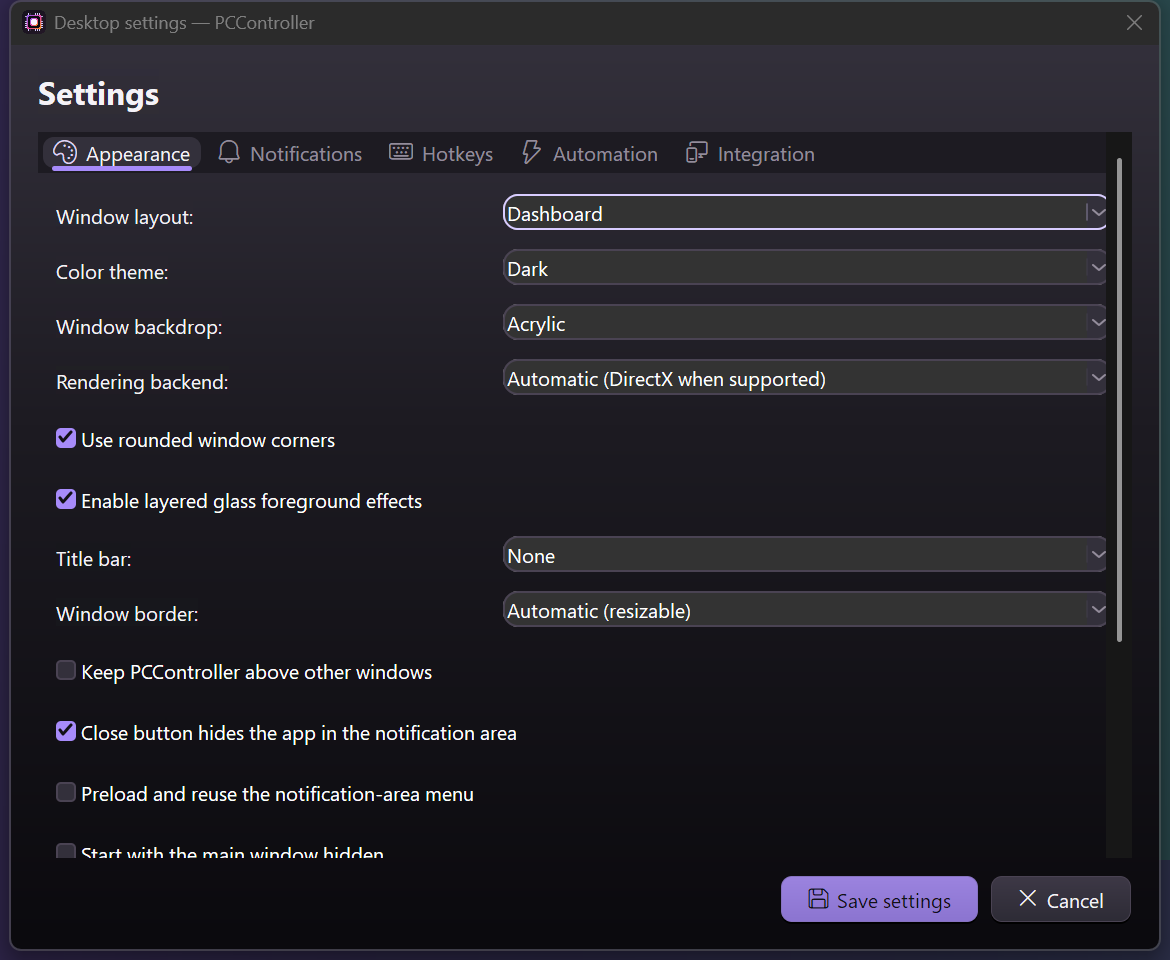
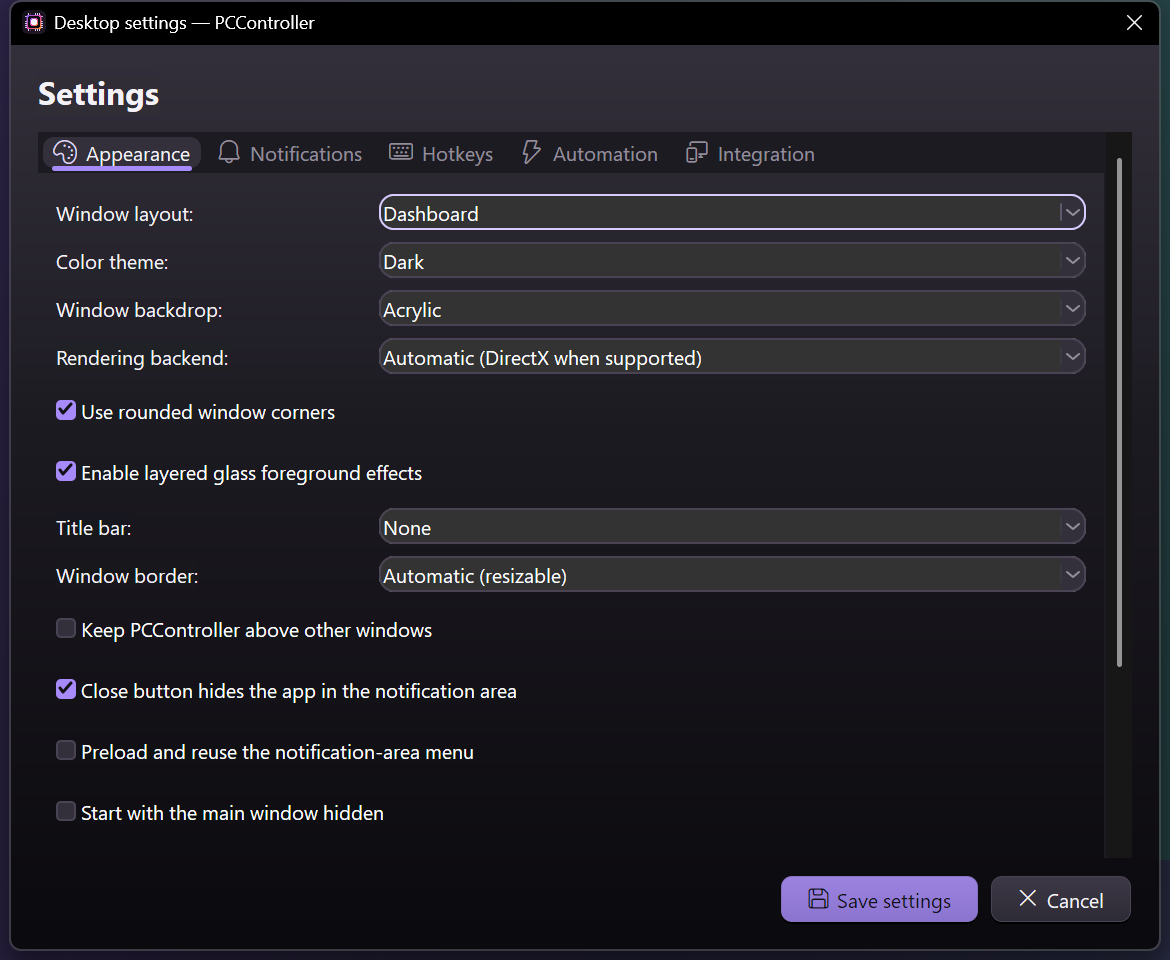
fix(desktop): align settings forms and reserve scrollbar space

Changed region(s): [[0.0308, 0.2188, 0.9538, 0.9062], [0.3077, 0.1875, 0.9538, 0.4062], [0.0, 0.0, 1.0, 0.0625]]

diff --git a/Tools/NativeDesktop/internal/dialogs/settings_windows.go b/Tools/NativeDesktop/internal/dialogs/settings_windows.go
@@ -598,6 +598,7 @@ func newSettingsDialogSession(
 		session.preview.Close()
 		return nil, fmt.Errorf("create settings dialog: %w", err)
 	}
+	configureSettingsFormLayouts(controls.tabs)
 	geometry, geometryErr := winfx.AttachResponsiveDialogGeometry(
 		uintptr(session.dialog.Handle()),
 	)
@@ -767,6 +768,21 @@ func newSettingsDialogSession(
 		return nil, fmt.Errorf("prepare settings dialog monitor geometry: %w", err)
 	}
 	return session, nil
+}
+
+// Full-width checkboxes and spacers must not make the label column consume
+// half of a wide dialog. Give the editor column the spare width and center
+// short native labels beside their taller inputs, consistently on every page.
+func configureSettingsFormLayouts(tabs *walk.TabWidget) {
+	if tabs == nil {
+		return
+	}
+	for index := 0; index < tabs.Pages().Len(); index++ {
+		if grid, ok := tabs.Pages().At(index).Layout().(*walk.GridLayout); ok {
+			_ = grid.SetAlignment(walk.AlignHNearVCenter)
+			_ = grid.SetColumnStretchFactor(1, 4)
+		}
+	}
 }
 
 func (session *settingsDialogSession) requestSave() {
@@ -1164,29 +1180,28 @@ func settingsAppearancePage(controls *settingsControls, cfg config.Config) decl.
 				Text:       "Enable APNG animation and motion",
 				Checked:    cfg.UI.Animations,
 			},
-			decl.CheckBox{
-				AssignTo:    &controls.magneticSnap,
-				Row:         14,
-				Column:      0,
-				Text:        "Magnetic edge snap",
-				Checked:     cfg.UI.MagneticSnap,
-				ToolTipText: "Hold Ctrl while dragging to temporarily disable snapping; release Ctrl to resume it immediately.",
-				OnCheckedChanged: func() {
-					updateSettingsEnabled(controls)
+			decl.Composite{
+				Row: 14, Column: 0, ColumnSpan: 3,
+				Layout: decl.HBox{MarginsZero: true, Spacing: 8},
+				Children: []decl.Widget{
+					decl.CheckBox{
+						AssignTo:         &controls.magneticSnap,
+						Text:             "Magnetic edge snap",
+						Checked:          cfg.UI.MagneticSnap,
+						ToolTipText:      "Hold Ctrl while dragging to temporarily disable snapping; release Ctrl to resume it immediately.",
+						OnCheckedChanged: func() { updateSettingsEnabled(controls) },
+					},
+					decl.HSpacer{},
+					decl.Label{Text: "Distance:"},
+					decl.NumberEdit{
+						AssignTo: &controls.snapDistance,
+						MinSize:  decl.Size{Width: 72},
+						MaxSize:  decl.Size{Width: 96},
+						Value:    float64(cfg.UI.MagneticSnapDistance),
+						MinValue: 1, MaxValue: 128, Increment: 1,
+						Decimals: 0, SpinButtonsVisible: true, Suffix: " px",
+					},
 				},
-			},
-			decl.Label{Row: 14, Column: 1, Text: "Distance:"},
-			decl.NumberEdit{
-				AssignTo:           &controls.snapDistance,
-				Row:                14,
-				Column:             2,
-				Value:              float64(cfg.UI.MagneticSnapDistance),
-				MinValue:           1,
-				MaxValue:           128,
-				Increment:          1,
-				Decimals:           0,
-				SpinButtonsVisible: true,
-				Suffix:             " px",
 			},
 			decl.Label{Row: 15, Column: 0, Text: dialogText(localizer, "Language:")},
 			decl.ComboBox{

diff --git a/Tools/NativeDesktop/internal/dialogs/settings_layout_live_windows_test.go b/Tools/NativeDesktop/internal/dialogs/settings_layout_live_windows_test.go
@@ -1,0 +1,80 @@
+//go:build windows
+
+package dialogs
+
+import (
+	"fmt"
+	"os"
+	"runtime"
+	"testing"
+	"time"
+
+	"github.com/lxn/walk"
+	"github.com/lxn/win"
+	"pccontroller.local/desktop/internal/config"
+)
+
+func TestSettingsPageViewportLayout(t *testing.T) {
+	if os.Getenv("PCCONTROLLER_DESKTOP_WINDOW_TESTS") != "1" {
+		t.Skip("native window integration is opt-in")
+	}
+	runtime.LockOSThread()
+	defer runtime.UnlockOSThread()
+	deactivate := activateSettingsTestManifest(t)
+	defer deactivate()
+	owner, err := walk.NewMainWindow()
+	if err != nil {
+		t.Fatal(err)
+	}
+	defer owner.Dispose()
+	cfg := config.Default()
+	cfg.UI.Locale, cfg.UI.Theme, cfg.UI.Animations = "en", "dark", false
+	session, err := newSettingsDialogSession(owner, cfg, SettingsActions{ControllerMode: true}, true)
+	if err != nil {
+		t.Fatal(err)
+	}
+	defer session.dialog.Dispose()
+	session.shown = true
+	session.dialog.Show()
+	pumpSettingsTestMessages(owner, 300*time.Millisecond)
+	content := session.controls.tabs.Parent().(*walk.Composite)
+	viewport := content.Parent().(*walk.ScrollView)
+	for _, locale := range []string{"en", "fa", "en"} {
+		cfg.UI.Locale = locale
+		applySettingsLocalization(session, cfg)
+		for _, width := range []int{config.SettingsWindowWidth, config.SettingsWindowMinWidth, 960} {
+			bounds := session.dialog.BoundsPixels()
+			bounds.Width = session.dialog.IntFrom96DPI(width)
+			if err := session.dialog.SetBoundsPixels(bounds); err != nil {
+				t.Fatal(err)
+			}
+			pumpSettingsTestMessages(owner, 150*time.Millisecond)
+			for index := 0; index < session.controls.tabs.Pages().Len(); index++ {
+				context := fmt.Sprintf("%s/%d/tab%d", locale, width, index)
+				_ = session.controls.tabs.SetCurrentIndex(index)
+				pumpSettingsTestMessages(owner, 100*time.Millisecond)
+				client := viewport.ClientBoundsPixels()
+				if win.GetWindowLong(viewport.Handle(), win.GWL_STYLE)&win.WS_HSCROLL == 0 && content.SizePixels().Width > client.Width {
+					t.Fatalf("%s: content extends underneath vertical scrollbar: content=%+v viewport=%+v", context, content.BoundsPixels(), client)
+				}
+				page := session.controls.tabs.Pages().At(index)
+				if page.SizePixels().Width < 100 {
+					t.Fatalf("%s: tab content collapsed", context)
+				}
+				if index == 0 {
+					label := page.Children().At(0).BoundsPixels()
+					field := session.controls.viewMode.BoundsPixels()
+					// Compare actual HWND heights, not Walk's requested rectangle:
+					// USER32 clamps a dropdown to its native selection height.
+					delta := (label.Y*2 + label.Height) - (field.Y*2 + field.Height)
+					if delta < -1 || delta > 1 {
+						t.Fatalf("%s: label/input centers drift: label=%+v input=%+v", context, label, field)
+					}
+					if locale == "en" && width >= config.SettingsWindowWidth && field.X > page.SizePixels().Width*45/100 {
+						t.Fatalf("%s: label column consumes excessive width: input=%+v page=%+v", context, field, page.SizePixels())
+					}
+				}
+			}
+		}
+	}
+}

diff --git a/Tools/NativeDesktop/docs/visual-regression-contract.md b/Tools/NativeDesktop/docs/visual-regression-contract.md
@@ -608,6 +608,16 @@ transparent interiors, joined glyph strokes, real-HDC blending and cache bounds.
 
 ## Change gate
 
+Settings form geometry must reserve visible scrollbar footprints even for
+ordinary non-wrapping grids. Its content must never extend beneath a vertical
+scrollbar without an actual horizontal scroll range. Center row labels against
+the measured native dropdown HWND height, not a dialog-unit estimate that
+USER32 later clamps. Give spare form width to editors rather than label columns;
+compound snap controls own a separate row. Native viewport regression coverage
+switches every tab, resizes to normal/minimum/wide bounds, and changes English
+and Persian live without replacing native input or dialog ownership (VIS-017,
+VIS-018, VIS-023).
+
 Any edit to `internal/ui`, `internal/traymenu`, dialog paint code, or relevant
 `internal/winfx` composition/region helpers must:
 

diff --git a/docs/NATIVE-DONOR-COVERAGE.md b/docs/NATIVE-DONOR-COVERAGE.md
@@ -16,7 +16,7 @@ including dependencies, assets, tests, tools, documentation and recovery records
 - Parent integration commit: `3aed9ef6`.
 - The subtree tree object equals the donor tree object exactly. This verifies
   every pathname, file mode and blob, not merely file counts or ancestry.
-- Current working-copy result: **2,051 identical files, 374 adapted files, seven
+- Current working-copy result: **2,049 identical files, 376 adapted files, seven
   regenerated content-hashed Web bundles, one explicitly excluded font, zero
   missing source files**. Exact old/new generated bundle paths are audited; the
   original bytes remain in the immutable import. Git clean/EOL filters
